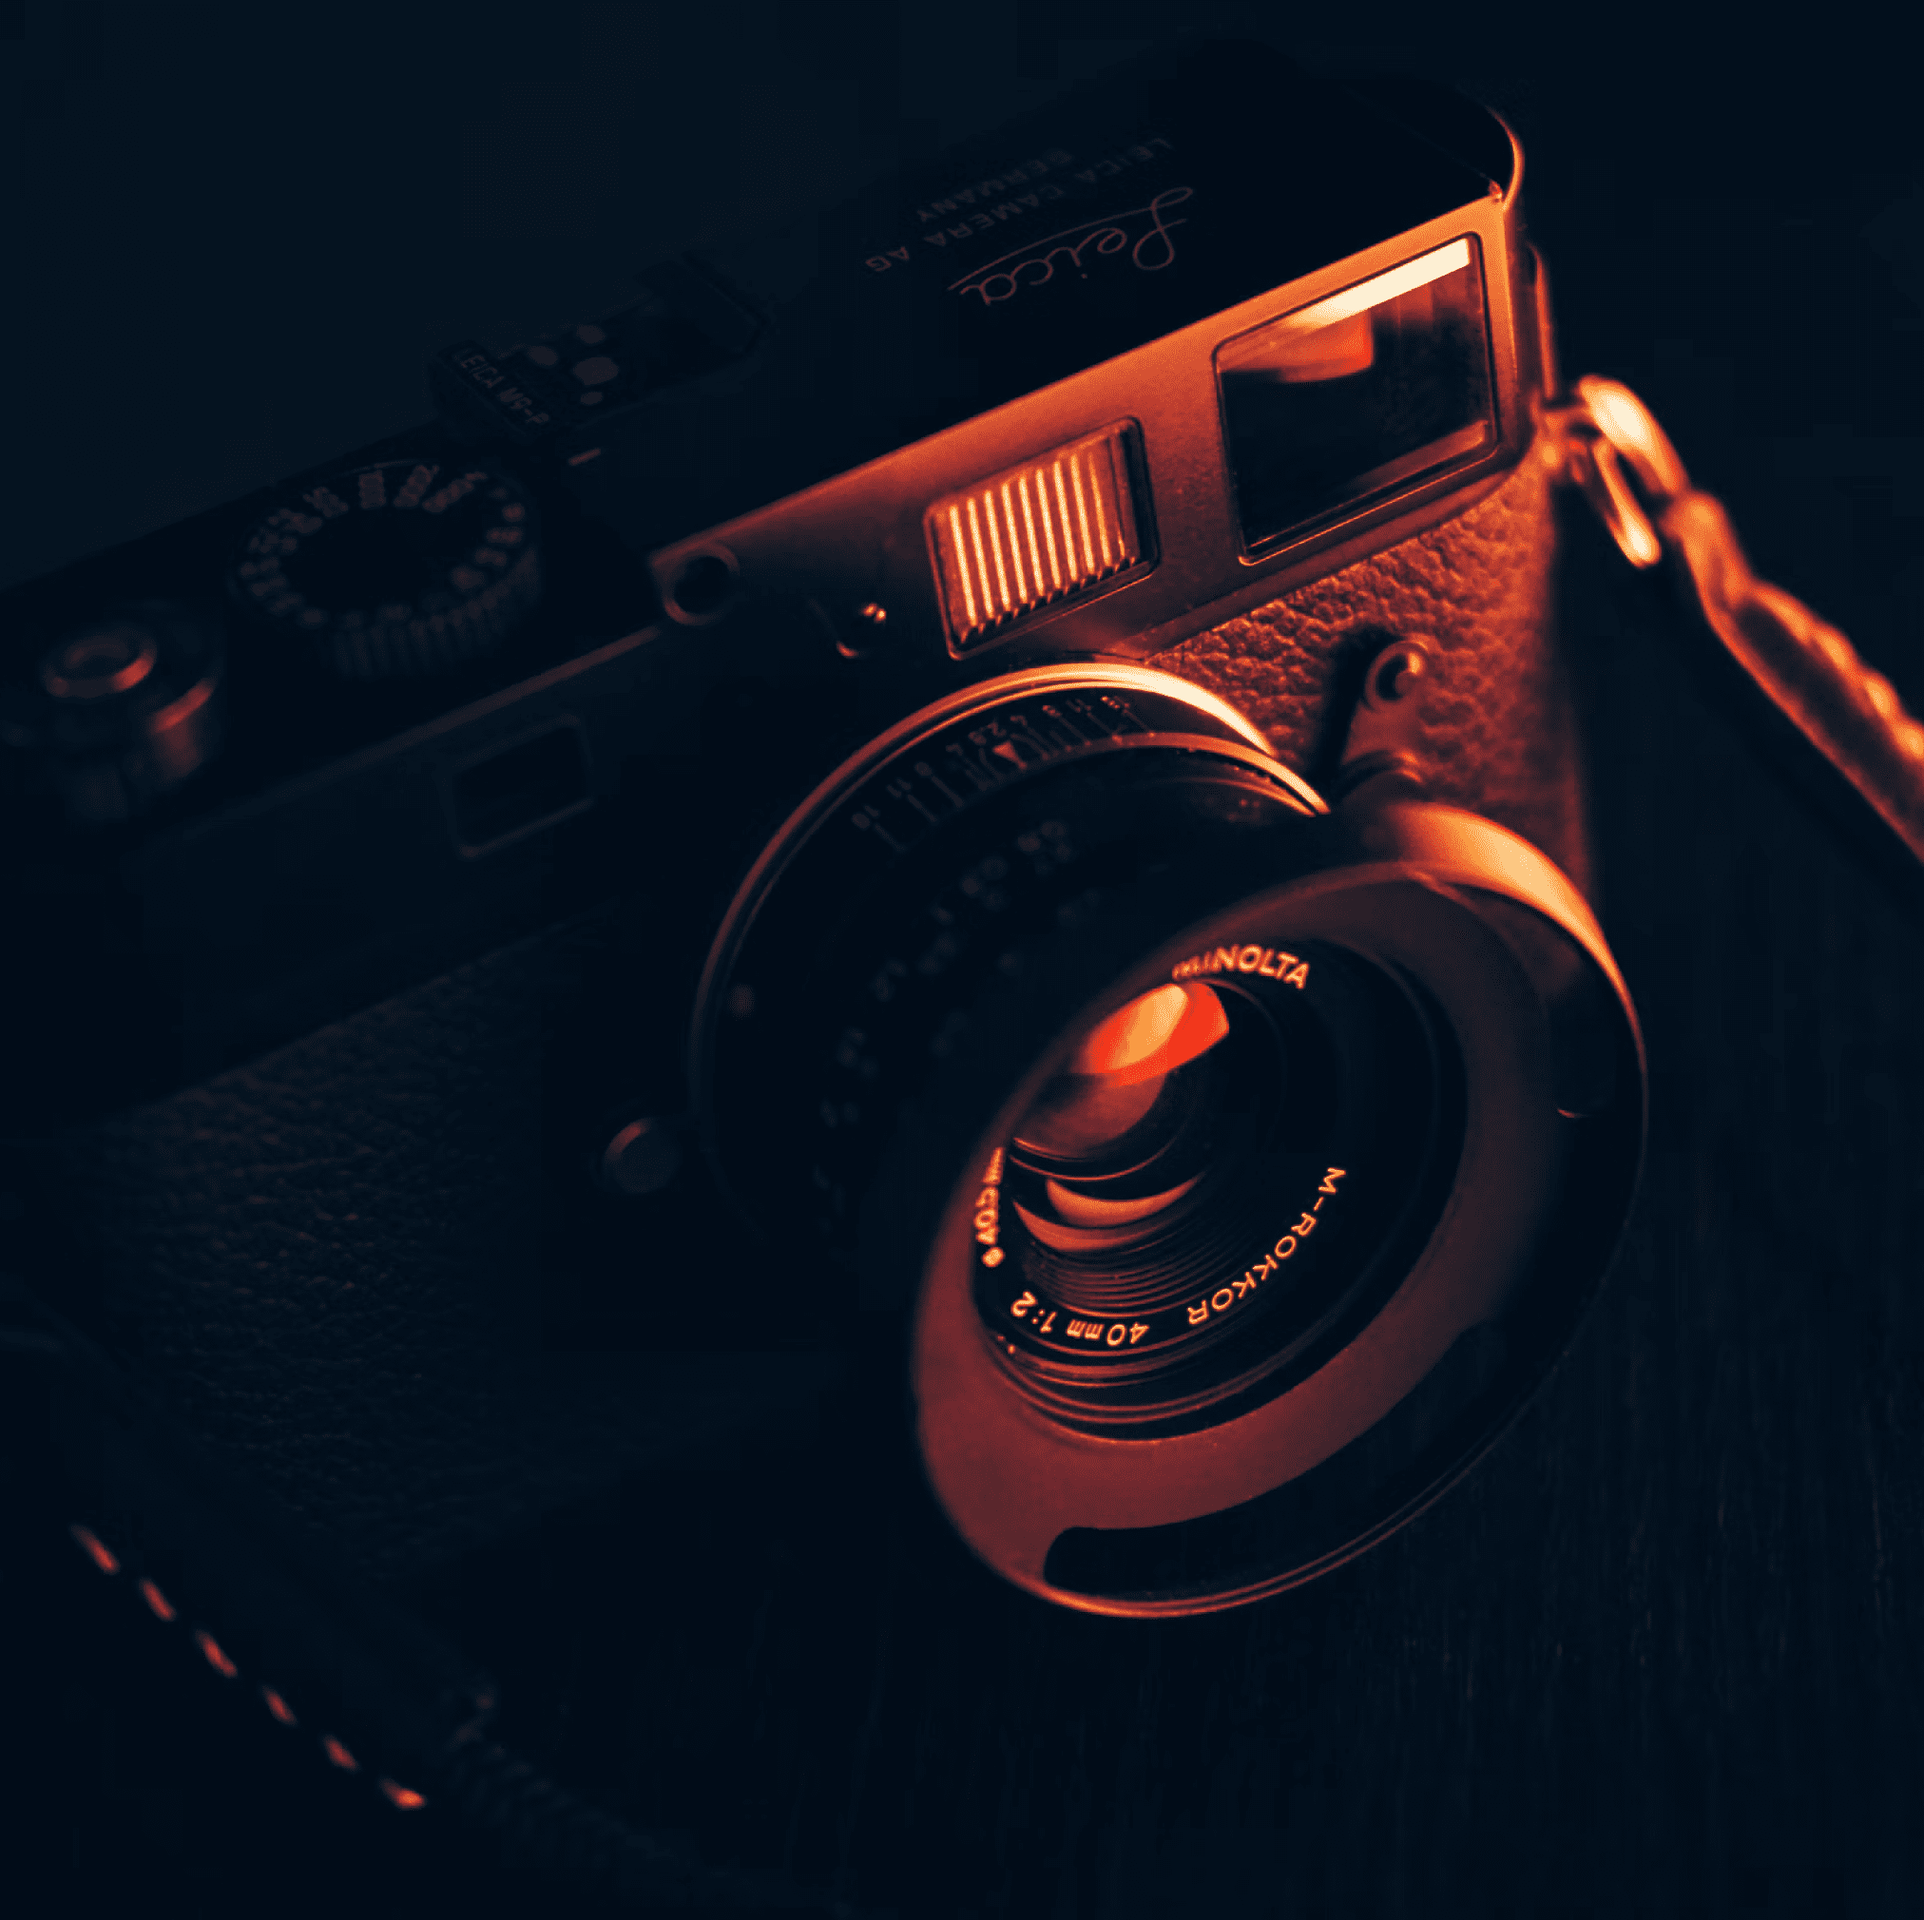
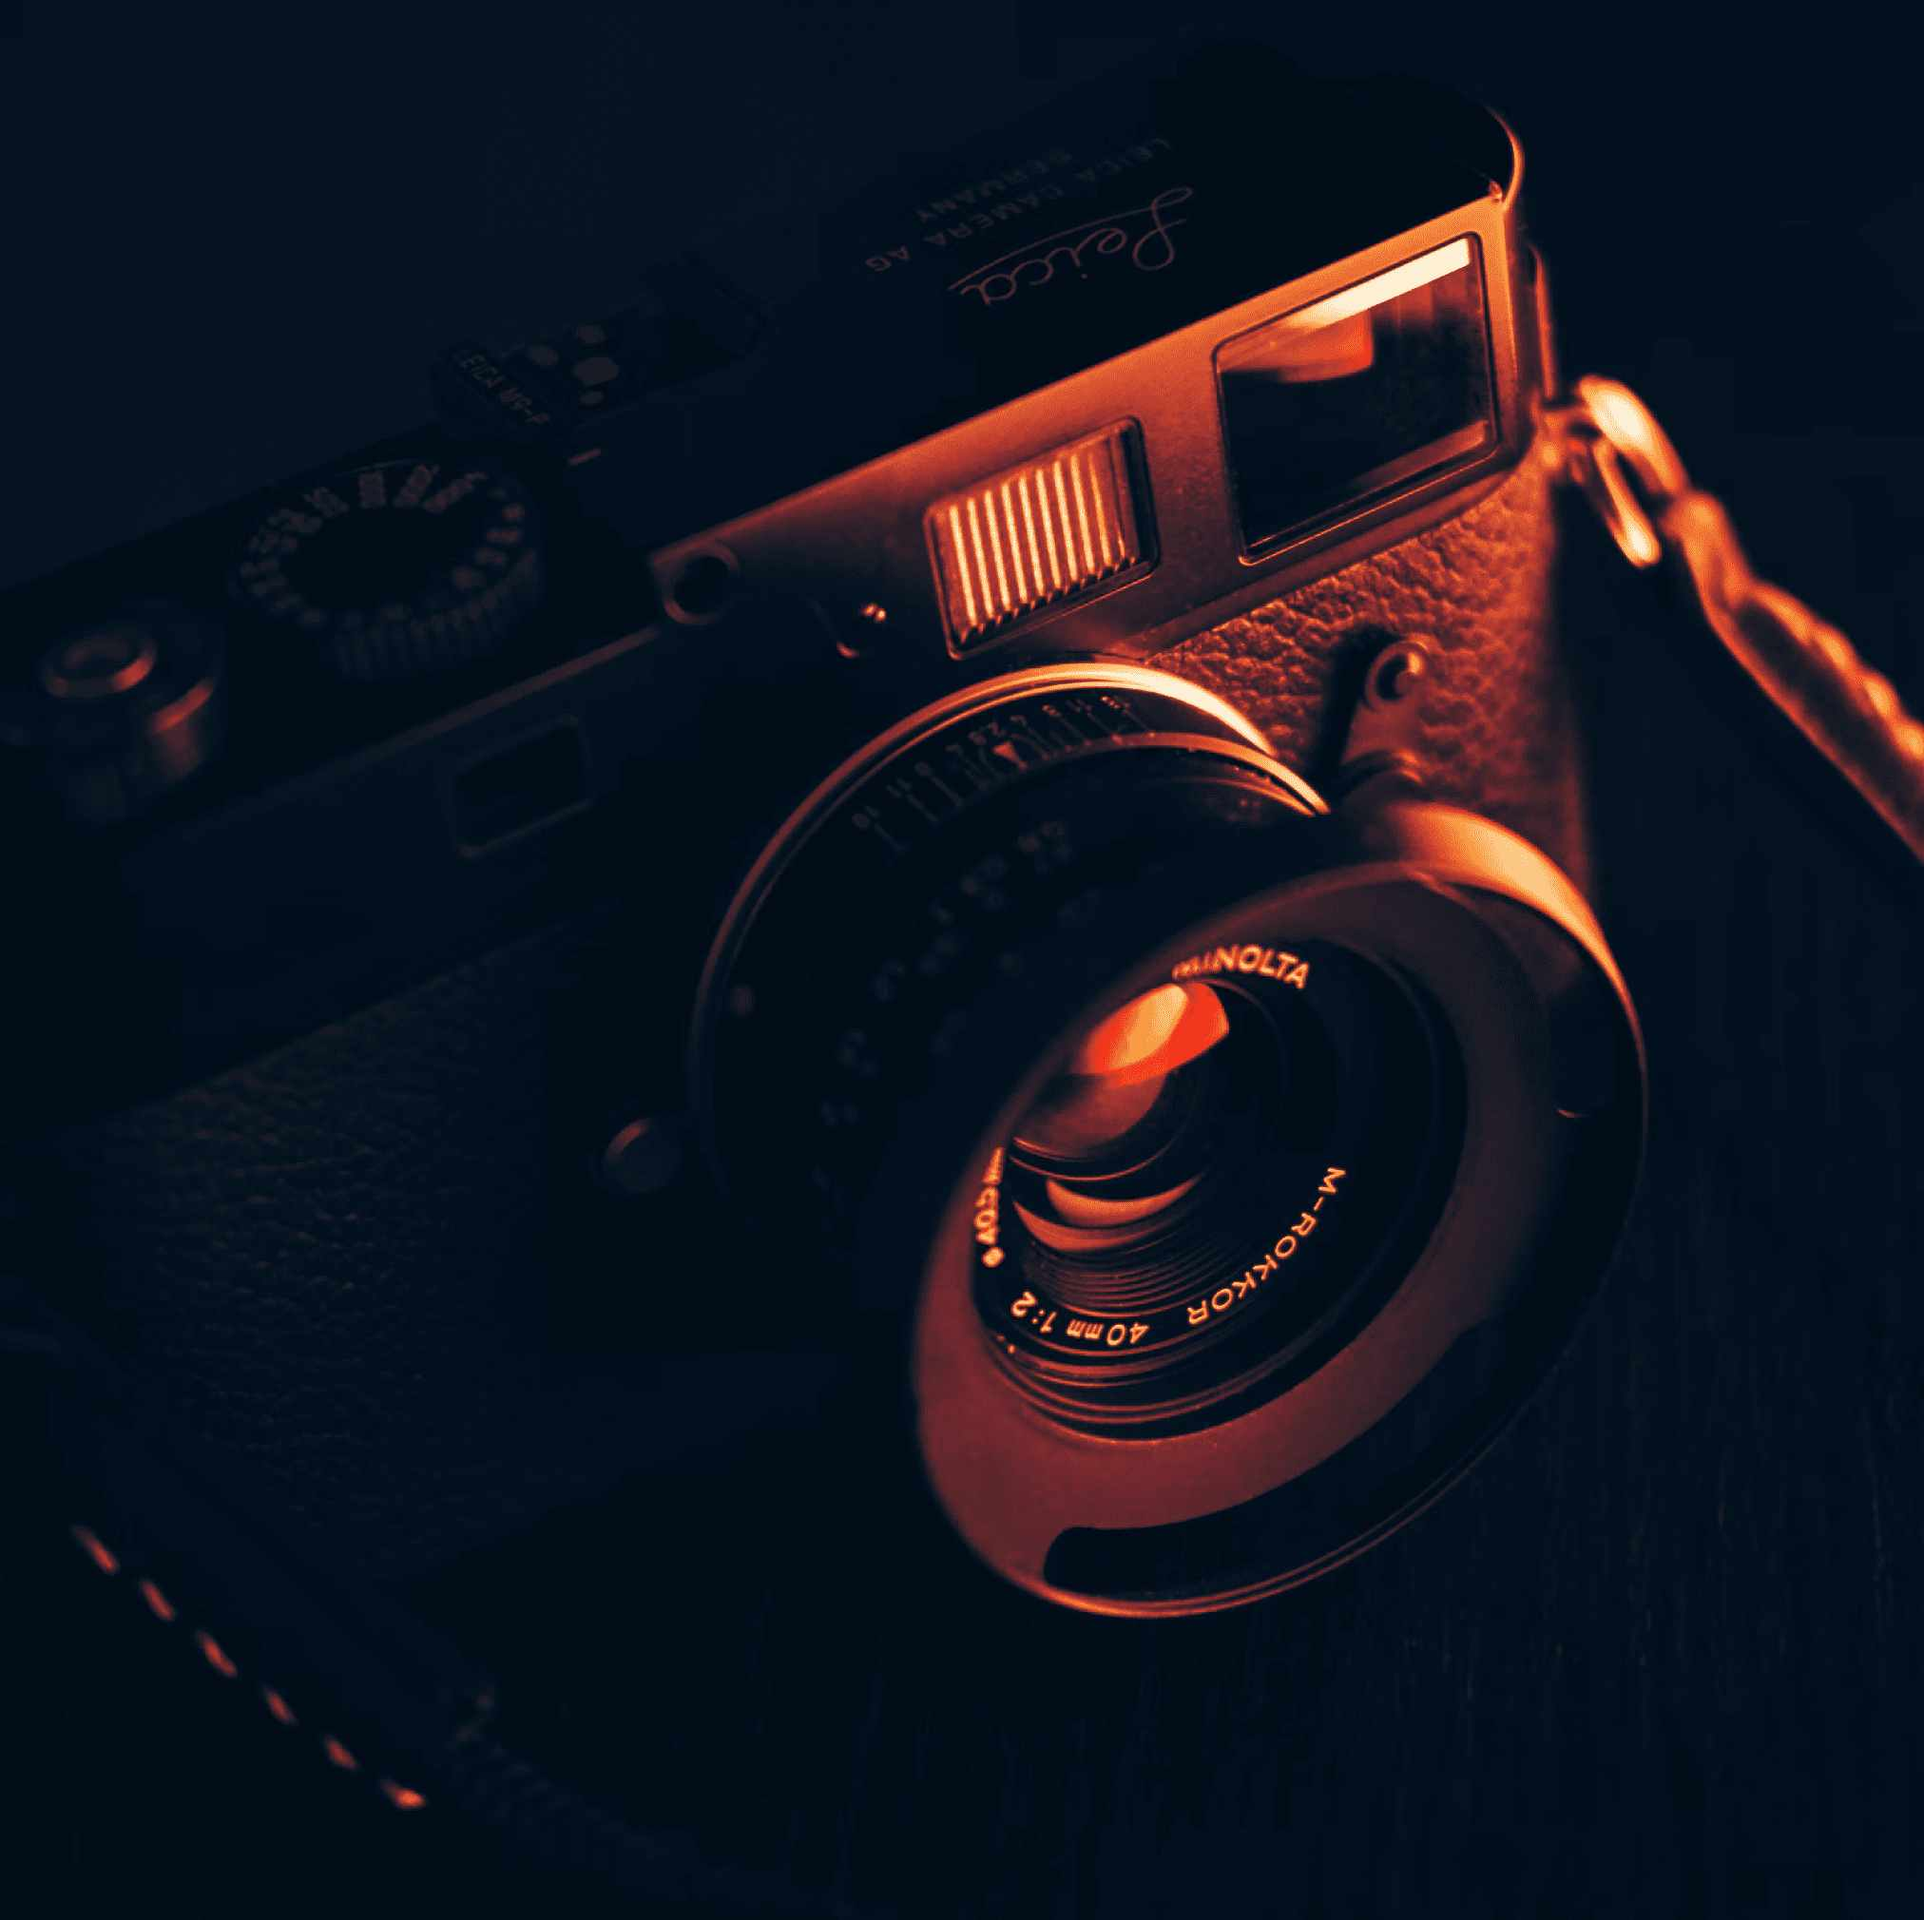
Réduction taille des images, ajout du meta description et test snippet

diff --git a/index.html b/index.html
@@ -2,6 +2,7 @@
 <html>
 <head>
 	<meta name="viewport" content="width=device-width, initial-scale=1.0">
+	<meta name="description" content="Je vous propose de saisir un moment, une émotion, une situation, un endroit au travers de photographies réalisés par mes soins. Avec la possibilité de retouche de photos et la création d'album photos.">
 	<link rel="stylesheet" href="./assets/bootstrap/bootstrap.css">
 	<link rel="stylesheet" href="./assets/style.css">
 	<link rel="preconnect" href="https://fonts.googleapis.com">
@@ -64,6 +65,11 @@
 		<h6 class="about-me__introduction">Devenir photographe était pour moi une évidence. Comme si j’y étais prédestiné. Saisir un moment, une émotion, une situation, un endroit, une lumière et les rendre immortels, voilà ce qui me fait vibrer.</h6>
 		<p>Nous passons notre vie à chercher le bonheur, et lorsque nous y touchons, nous n’avons qu’une envie : le figer au travers de photographies pour le savourer avec les personnes qui sont importantes à nos yeux, ou le partager au plus grand nombre.
 			C’est ce que je vous propose : saisir ces merveilleux moments au travers de mon regard, mon approche, ma technique. Rendre ces moments immortels, afin que vous puissiez y puiser de l’amour, du bonheur, de la tendresse et de lumière à chaque fois que vous poserez les yeux sur vos photos.</p>
+		<div itemscope itemtype="http://schema.org/LocalBusiness">
+			<p itemprop="address">Adresse : 68 avenue Alsace-Lorraine, 33200 Bordeaux</p>
+			<p itemprop="telephone">05 56 67 78 89</p>
+			<p itemprop="openingHours">Horaires : 10h - 19h</p>
+		</div>
 	</div>
 </div>
 <div id="gallery">
